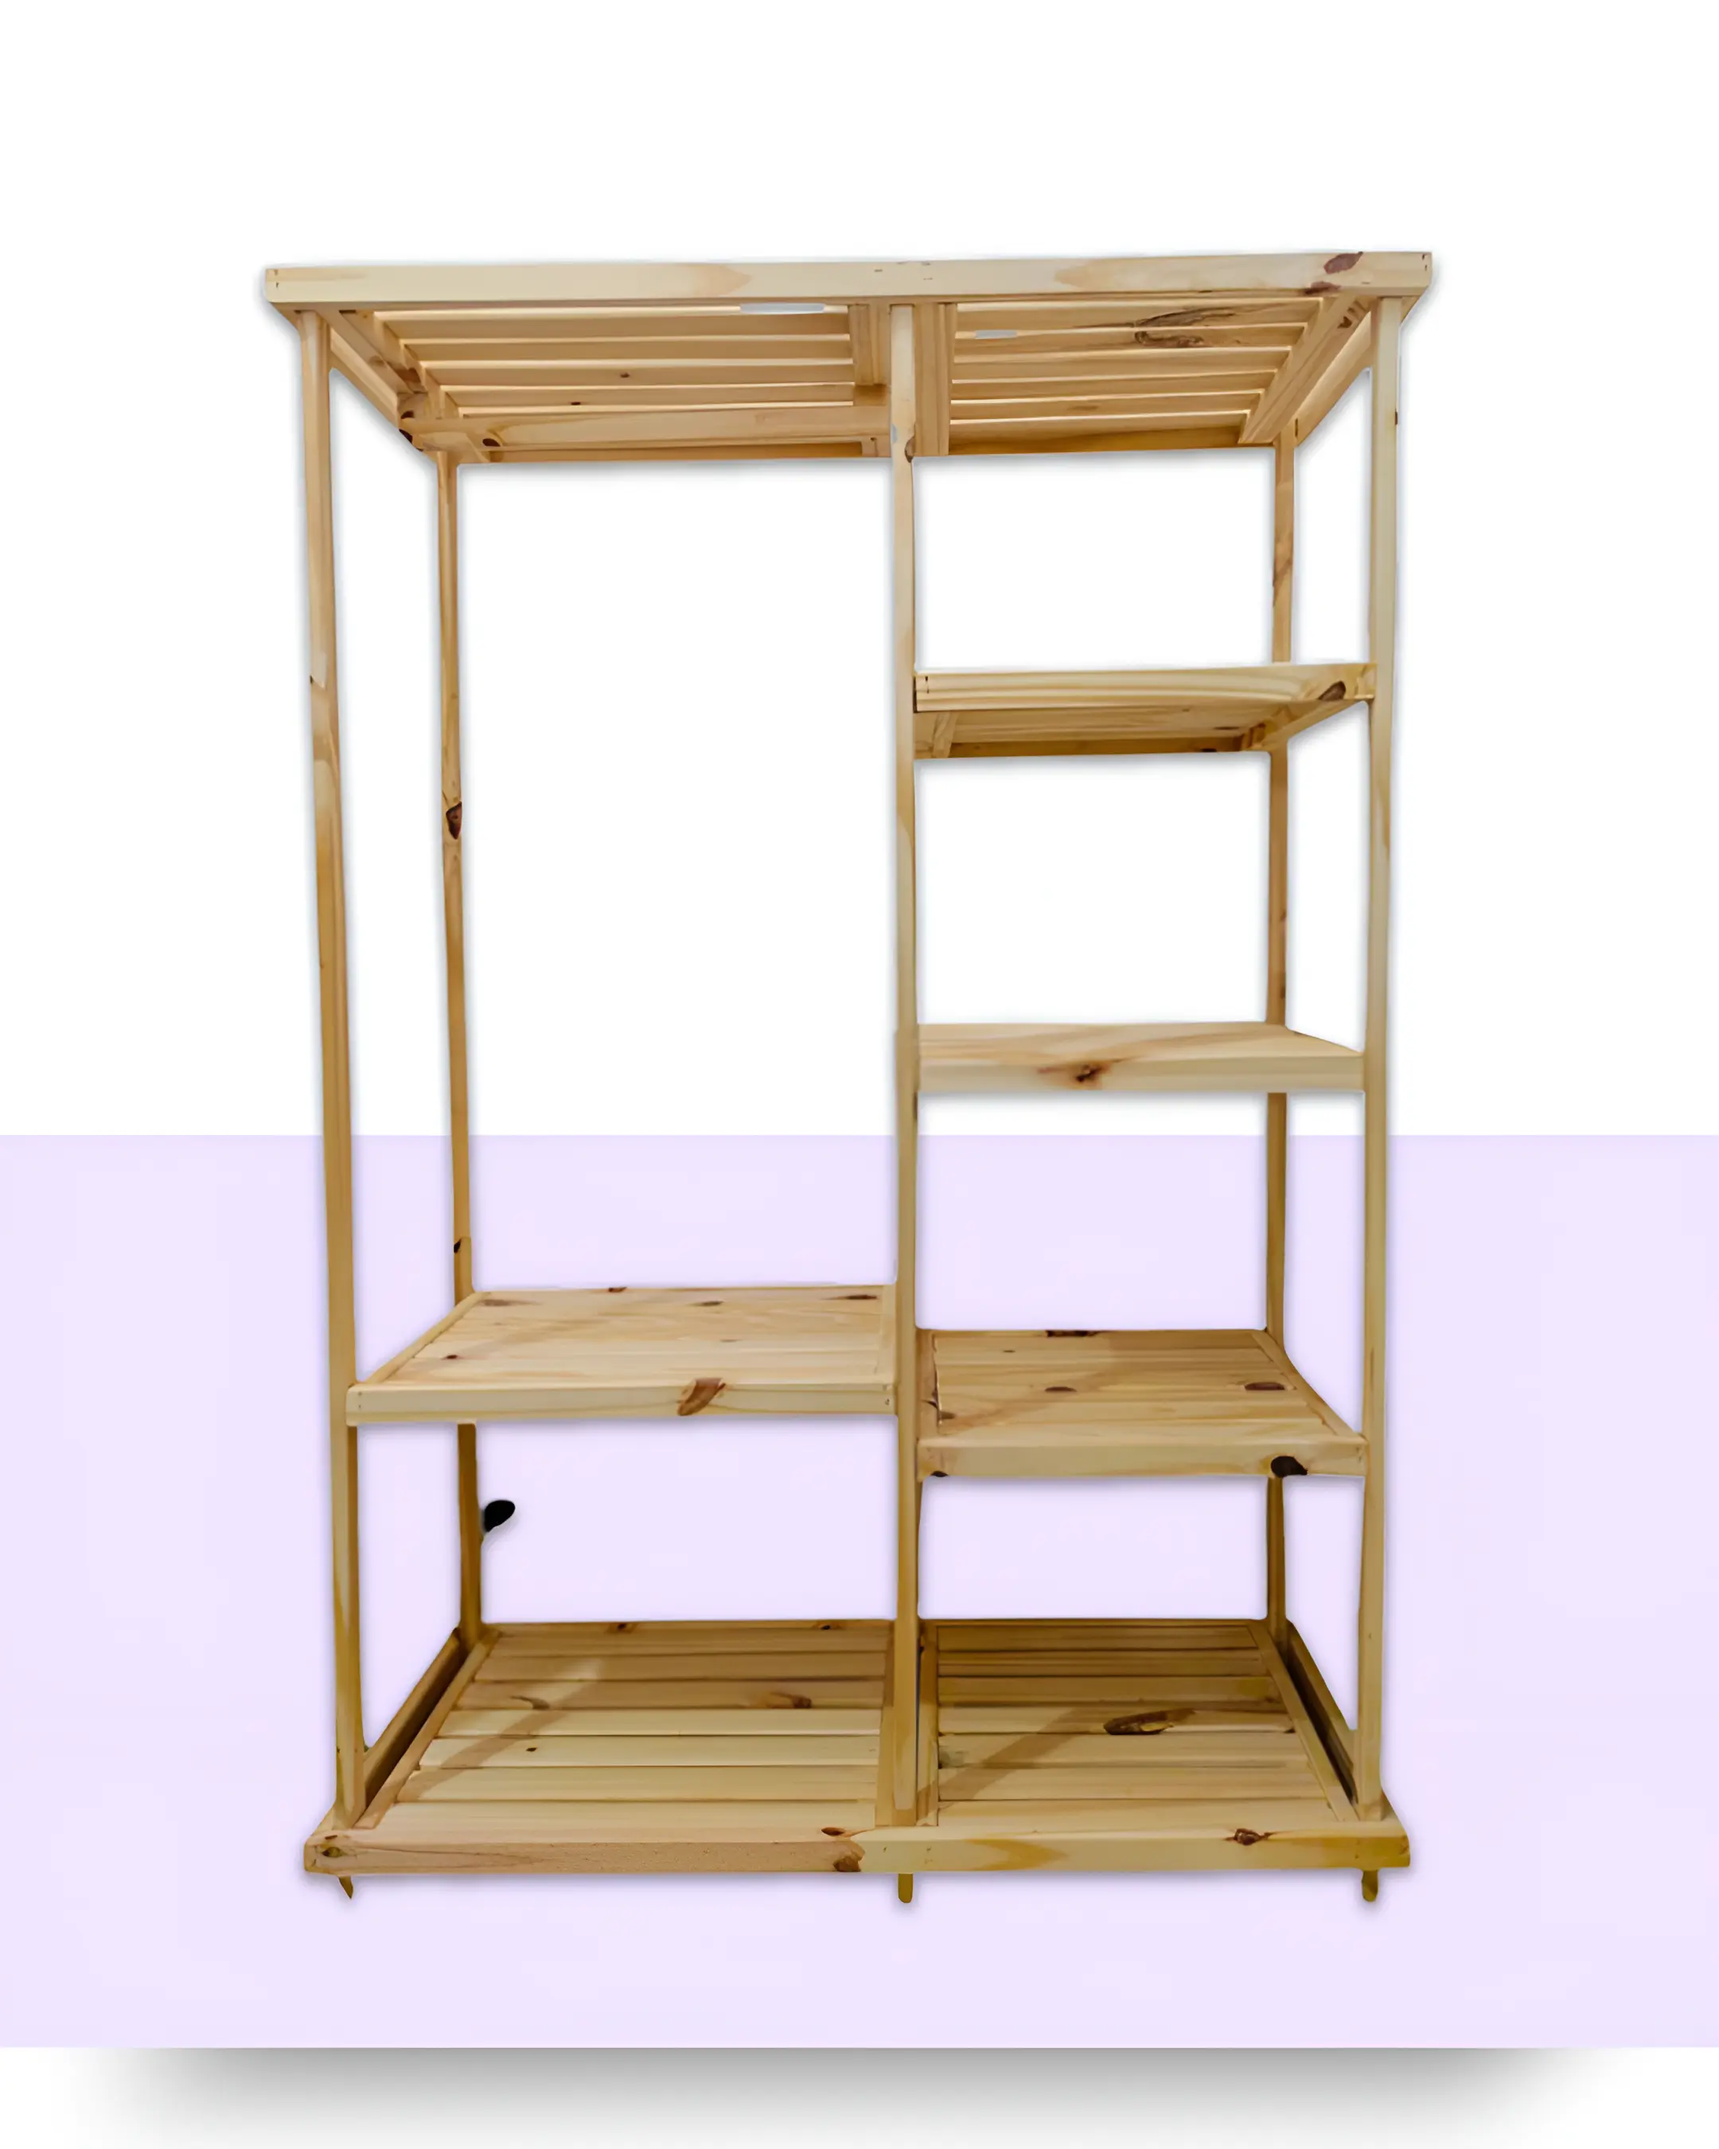
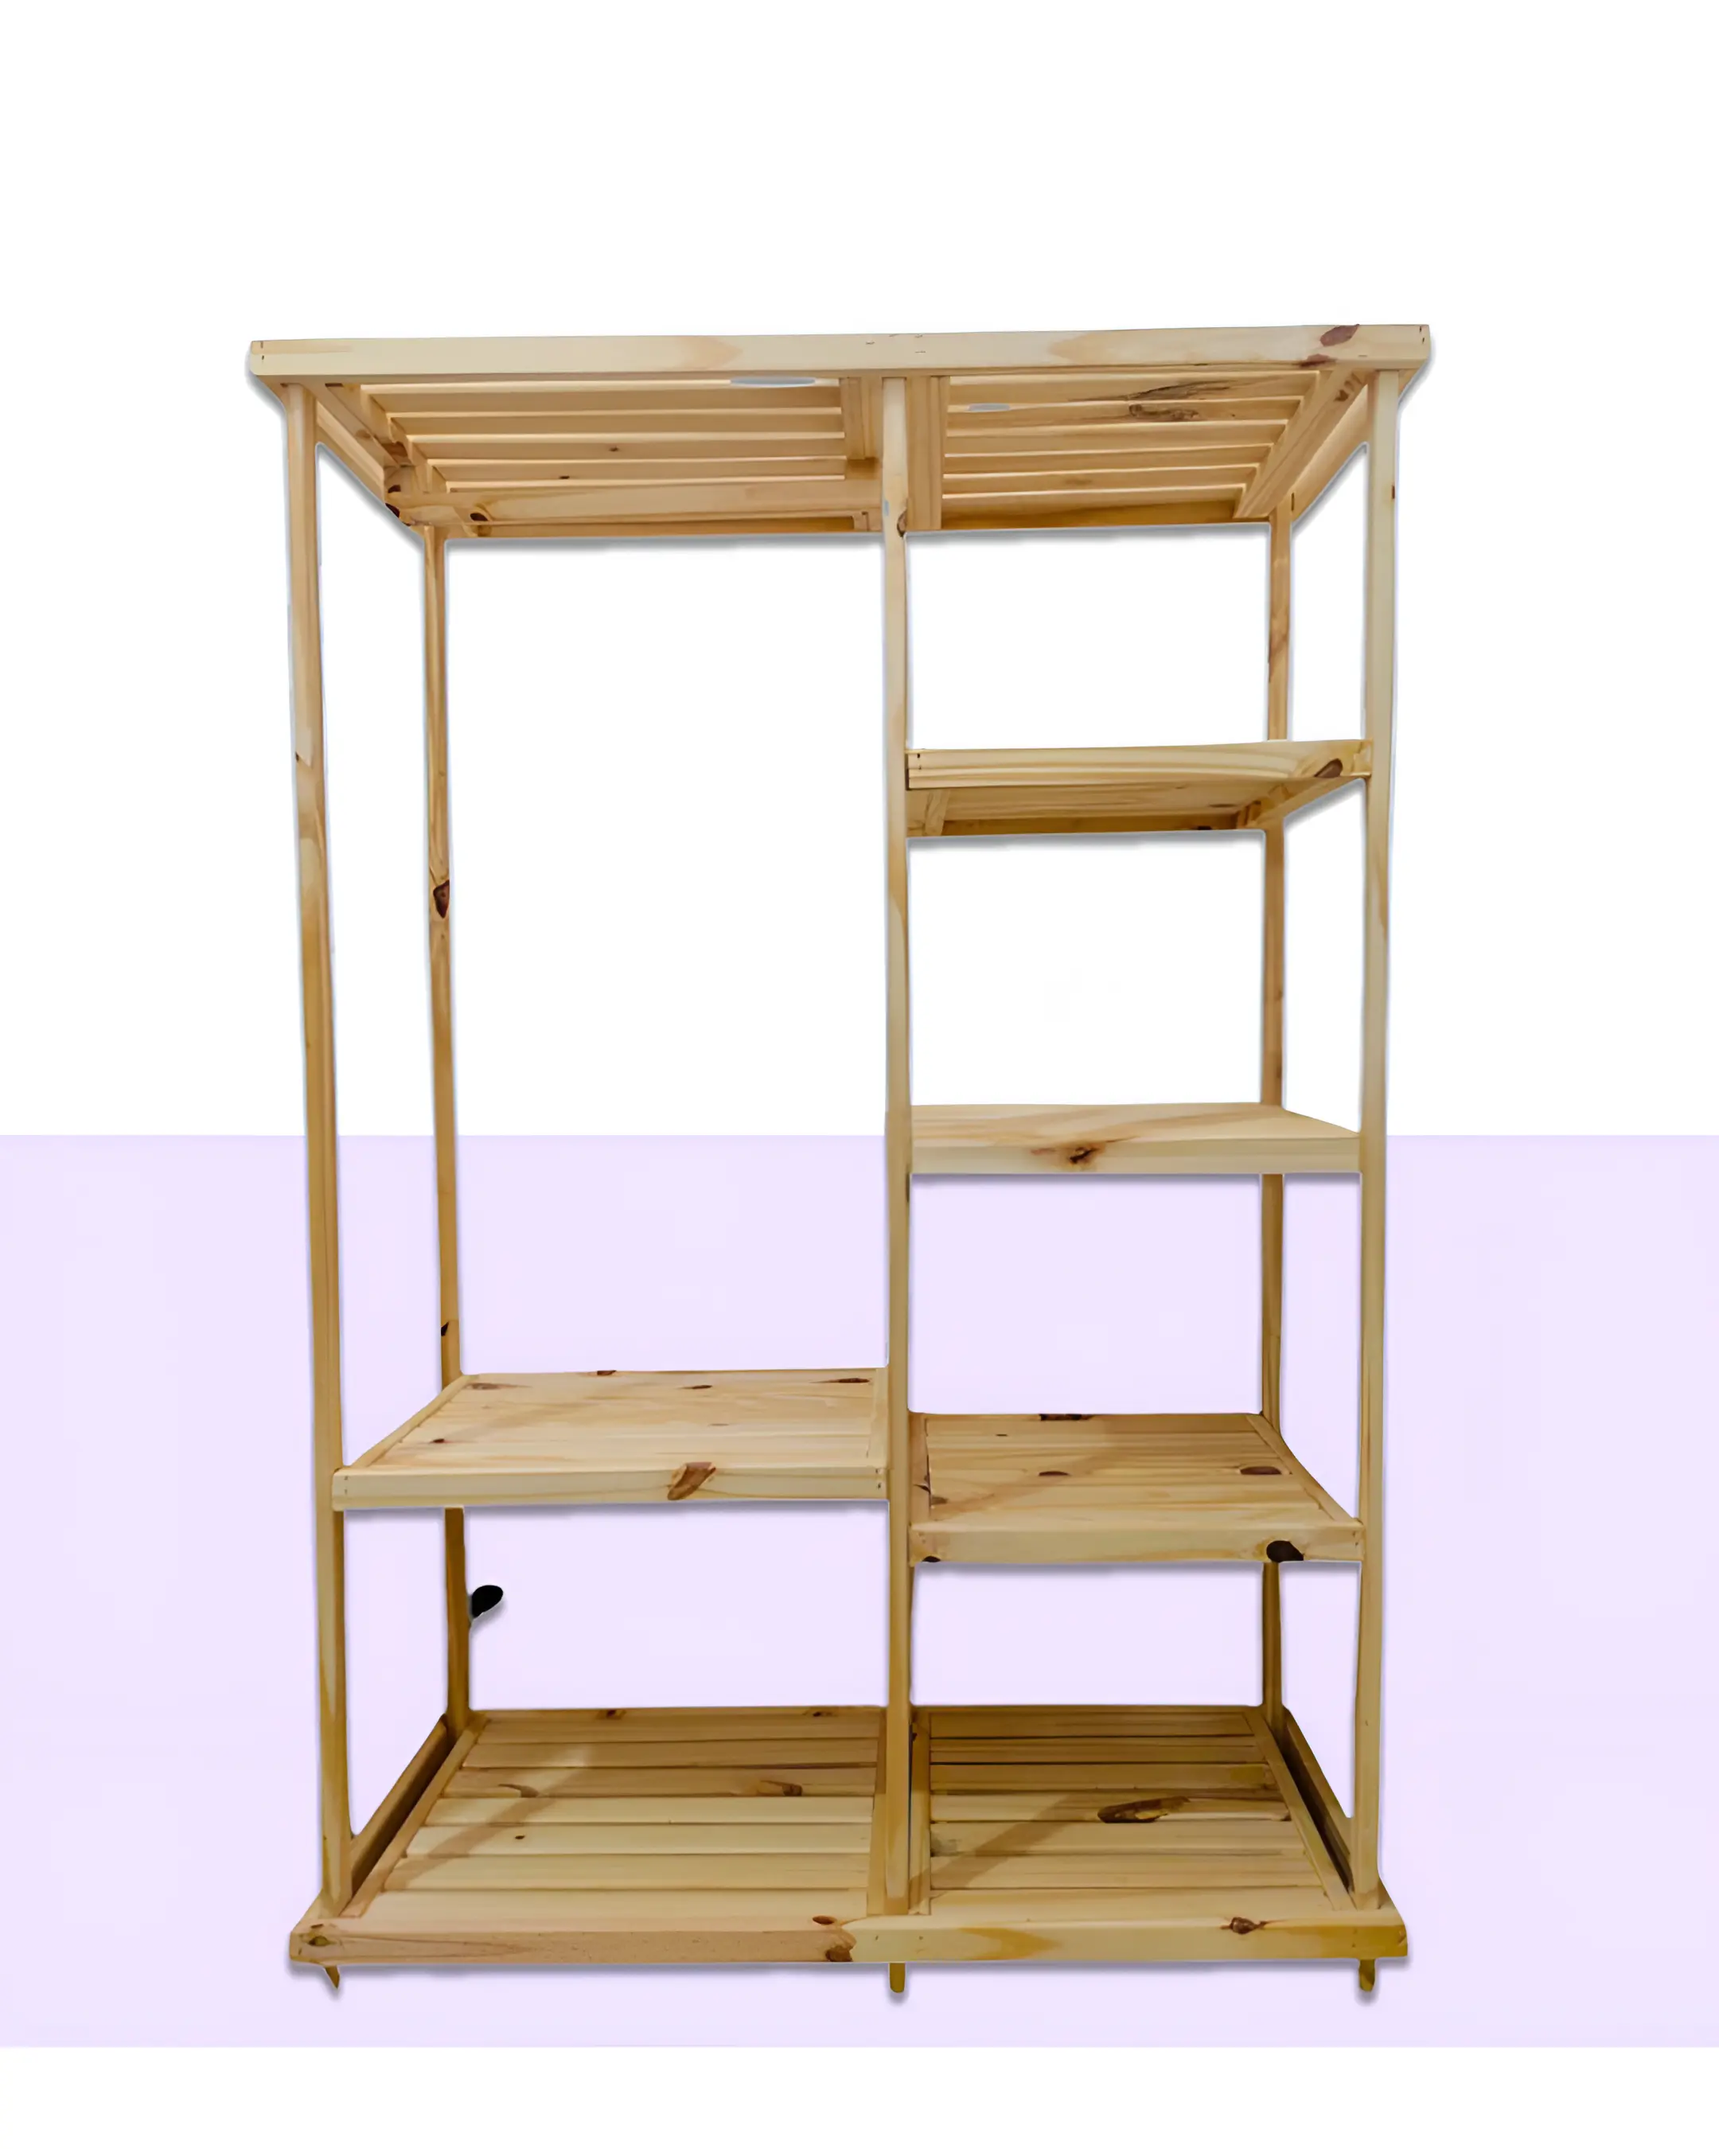
fix(img from component Destacados)

diff --git a/src/componentes/Destacados.jsx b/src/componentes/Destacados.jsx
@@ -1,6 +1,5 @@
 import '../estilos/destacados.css';
-
-import "react-responsive-carousel/lib/styles/carousel.min.css"; // requires a loader
+import "react-responsive-carousel/lib/styles/carousel.min.css";
 import { Carousel } from 'react-responsive-carousel';
 
 import dest1 from '../assets/destacados/foto1.webp';
@@ -34,7 +33,7 @@ const Destacados = () => {
       </div>
       <Carousel autoPlay infiniteLoop className='carusel'>
         <div>
-          <img src={dest1} />
+          <img src={dest3} />
           <a href="https://www.muebles44.com/varios/organizador-con-3-cajones-varios-colores-or003"><p className="legend">Organizador</p></a>
         </div>
         <div>
@@ -42,8 +41,8 @@ const Destacados = () => {
           <a href="https://www.muebles44.com/vestidores/vestidor-eco-con-estantes-y-perchero-vs001"><p className="legend">Vestidor</p></a>
         </div>
         <div>
-          <img src={dest3} />
-          <a href=""><p className="legend">Mesa Tandil</p></a>
+          <img src={dest1} />
+          <a href="https://www.muebles44.com/varios/bano/repisa-con-toallero-minimalista"><p className="legend">Toallero</p></a>
         </div>
       </Carousel>
     </div>
